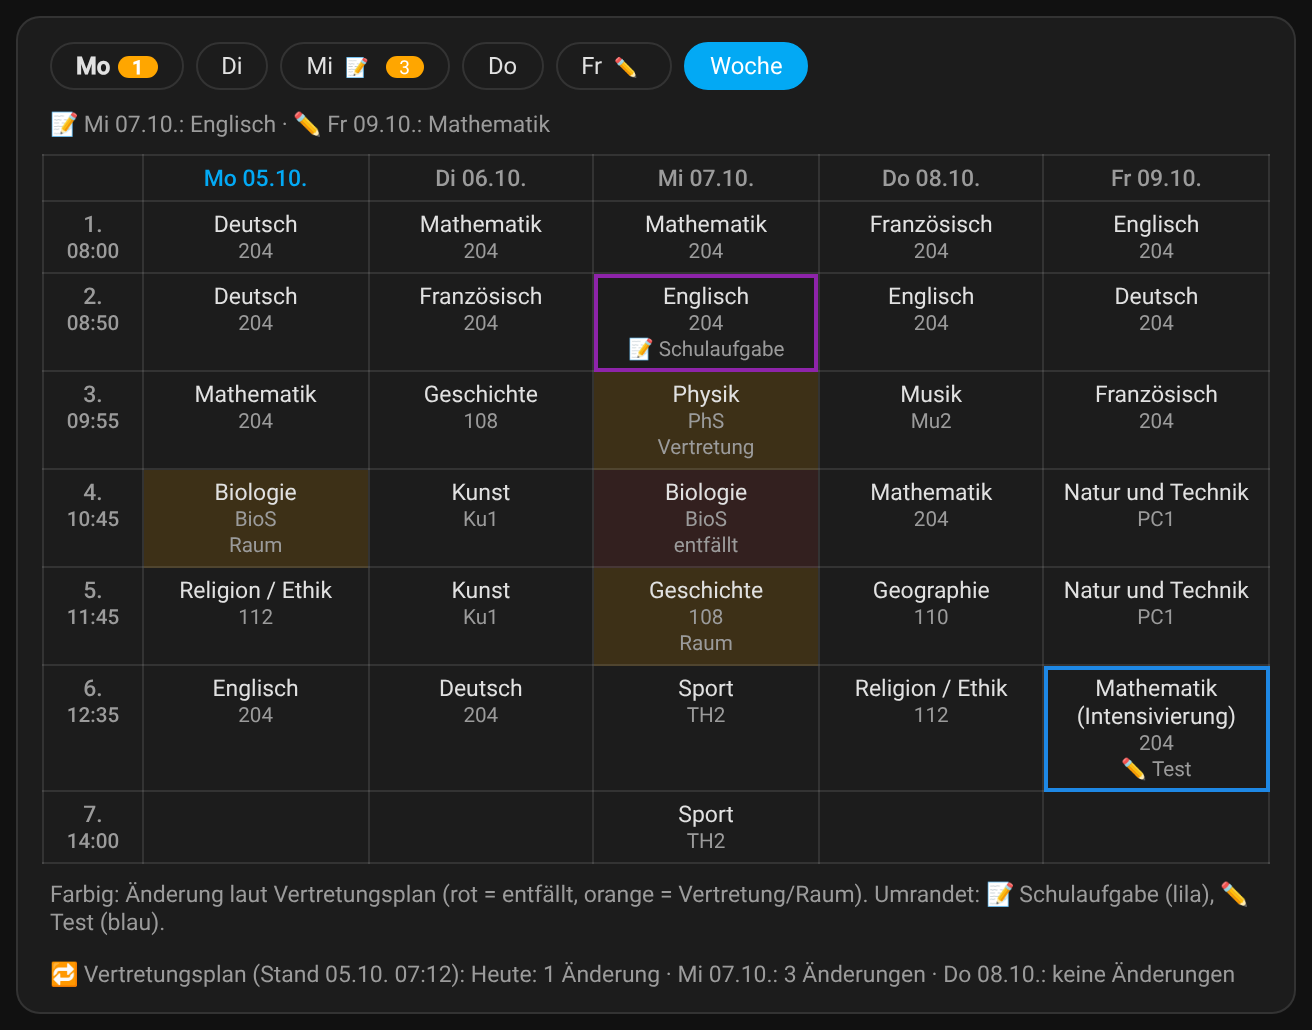
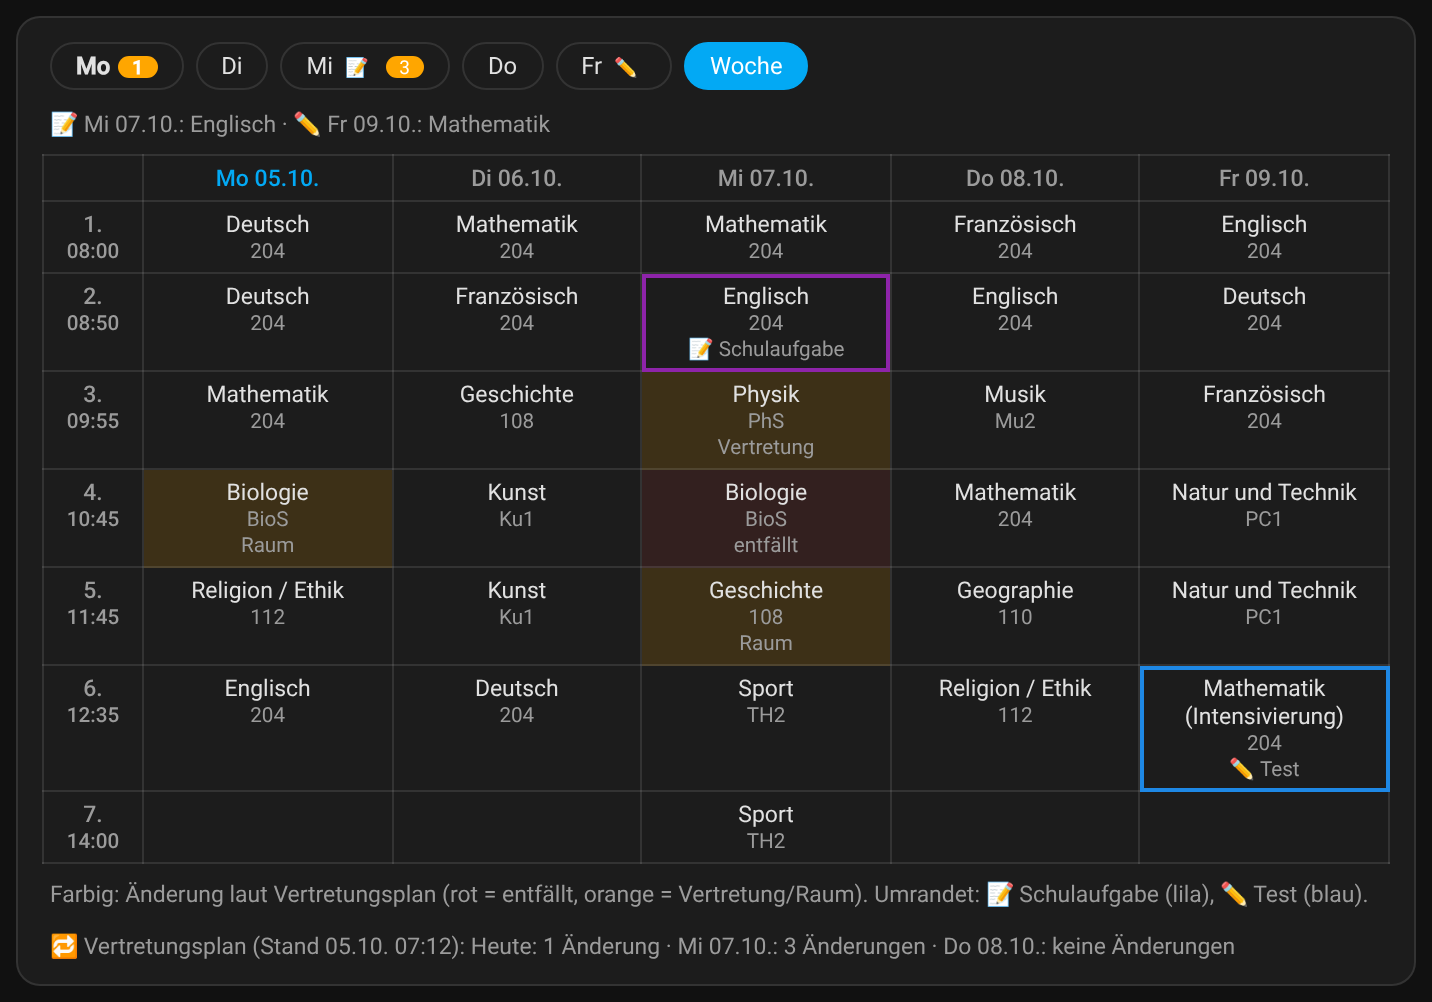
0.7.2: Wochenansicht ohne Querscrollen, Option view: week für die Übersicht
- Stundenplan-Karte: schmale Karten nutzen Kurzformen (Mathe, Engl., SA, Vertr.), kein min-width mehr
- Neue Option view: week; Dashboard-Übersicht startet beide Stundenpläne in der Woche
- README (EN/DE), Changelog, Test

Claude-Session: https://claude.ai/code/session_01QqjWEpAZQCKPRpwnvHVWB5

diff --git a/custom_components/schulmanager/www/schulmanager-card.js b/custom_components/schulmanager/www/schulmanager-card.js
@@ -4,9 +4,10 @@
  *   type: custom:schulmanager-termine      # Termine & Fristen mit Legende
  *   type: custom:schulmanager-stundenplan  # Stundenplan mit Vertretungen
  *   child: anna          # optional, ohne Angabe: alle Kinder
+ *   view: week           # nur Stundenplan: mit Wochenansicht starten (Standard: Tag)
  */
 (() => {
-  const VERSION = "0.7.1";
+  const VERSION = "0.7.2";
   const esc = (v) =>
     String(v ?? "").replace(/[&<>"']/g, (c) => ({ "&": "&amp;", "<": "&lt;", ">": "&gt;", '"': "&quot;", "'": "&#39;" })[c]);
   const fmtDate = (iso) => {
@@ -154,10 +155,22 @@
     .badge.vertretung, .badge.raum { background: rgba(255,166,0,.18); color: var(--warning-color,#e08a00); }
     .chg { font-size:.82em; color: var(--warning-color,#e08a00); margin-top:2px; }
     .les.entfall .chg { color: var(--error-color,#db4437); }
-    .wk { overflow-x:auto; padding: 0 12px 4px; }
-    .wk table { border-collapse: collapse; width:100%; min-width: 520px; font-size:.82em; table-layout: fixed; }
+    .wk { overflow-x:auto; padding: 0 12px 4px; container-type: inline-size; }
+    .wk table { border-collapse: collapse; width:100%; font-size:.82em; table-layout: fixed; }
     .wk th:first-child { width: 3.4em; }
-    .wk td { overflow-wrap:anywhere; }
+    .wk td { overflow-wrap:break-word; hyphens:auto; }
+    .wk .sh { display:none; }
+    /* schmale Karten (z. B. halbe Spalte): kurze Fachnamen, kleinere Schrift – kein Querscrollen */
+    @container (max-width: 640px) {
+      .wk table { font-size:.74em; }
+      .wk .lg { display:none; }
+      .wk .sh { display:inline; }
+      .wk th, .wk td { padding:3px 2px; }
+      .wk th:first-child { width: 2.9em; }
+    }
+    @container (max-width: 380px) {
+      .wk th .dt { display:none; }
+    }
     .wk th, .wk td { border:1px solid var(--divider-color); padding:4px 5px; text-align:center; vertical-align:top; }
     .wk th { color: var(--secondary-text-color); font-weight:500; }
     .wk th.today { color: var(--primary-color); }
@@ -593,6 +606,17 @@
     if (parts.length > 1 && parts.every((x) => RELIGION.has(x))) return "Religion / Ethik";
     return [...new Set(parts.map(partName))].join(" / ");
   };
+  // Kurzform für die Wochenansicht in schmalen Karten, z. B. "Mathematik (Intensivierung)" -> "Mathe Int."
+  const SHORT = [
+    [/\s*\(Intensivierung\)/g, " Int."], [/\s*\(Übung\)/g, " Ü"], [/\s*\(Wahlfach\)/g, " (W)"], [/\s*\(Förderunterricht\)/g, " Förd."],
+    [/Mathematik/g, "Mathe"], [/Englisch/g, "Engl."], [/Französisch/g, "Franz."], [/Spanisch/g, "Span."], [/Italienisch/g, "Ital."],
+    [/Griechisch/g, "Griech."], [/Biologie/g, "Bio"], [/Geschichte/g, "Gesch."], [/Geographie/g, "Geo"], [/Informatik/g, "Info"],
+    [/Natur und Technik/g, "NuT"], [/Religion \/ Ethik/g, "Reli/Eth"], [/Ev\. Religion/g, "Ev. Reli"], [/Kath\. Religion/g, "Kath. Reli"],
+    [/Berufsorientierung/g, "BO"], [/Wirtschaft und Recht/g, "WR"], [/Wirtschaftsinformatik/g, "WIn"], [/Sozialkunde/g, "Sozi"],
+    [/Politik und Gesellschaft/g, "PuG"], [/Klassenleiterstunde/g, "KL-Std."], [/Intensivierung/g, "Int."], [/Stimmbildung/g, "Stimmb."],
+    [/Tischtennis/g, "TT"], [/Schwimmen/g, "Schwimm."], [/Orchester/g, "Orch."], [/Profilfach/g, "Profil"],
+  ];
+  const shortName = (s) => SHORT.reduce((t, [re, r]) => t.replace(re, r), fullName(s)).replace(/\s*\/\s*/g, "/");
   const lessonNums = (txt) => {
     const nums = String(txt || "").match(/\d+/g) || [];
     if (nums.length === 2 && /-|–|bis/.test(txt)) {
@@ -638,6 +662,8 @@
   };
   const EXAM_LABEL = { schulaufgabe: ["📝", "Schulaufgabe", "exam-sa"], test: ["✏", "Test", "exam-test"] };
   const KIND_LABEL = { entfall: "entfällt", vertretung: "Vertretung", raum: "Raum" };
+  const KIND_SHORT = { entfall: "entfällt", vertretung: "Vertr.", raum: "Raum" };
+  const EXAM_SHORT = { schulaufgabe: "SA", test: "Test" };
 
   class SchulmanagerTermineCard extends SchulmanagerCard {
     getCardSize() {
@@ -813,10 +839,16 @@
       );
       root.querySelectorAll("[data-week]").forEach((el) =>
         el.addEventListener("click", () => {
-          this._week = { ...(this._week || {}), [el.dataset.week]: !(this._week || {})[el.dataset.week] };
+          this._week = { ...(this._week || {}), [el.dataset.week]: !this._isWeek(el.dataset.week) };
           this._render();
         })
       );
+    }
+
+    // Wochenansicht aktiv? Ohne Klick gilt die Einstellung `view: week` der Karte.
+    _isWeek(key) {
+      const w = (this._week || {})[key];
+      return w === undefined ? this._config.view === "week" : w;
     }
 
     // Datum des nächsten (oder heutigen) Tages mit diesem Wochentag
@@ -862,15 +894,15 @@
         const n = (byDate[iso] || []).length;
         const ex = (exams[iso] || []).map((e) => EXAM_LABEL[e.category][0]).join("");
         const tip = [`${WD_LONG[wd]} ${fmtShort(iso)}`, ...(exams[iso] || []).map((e) => e.title)].join("\n");
-        html += `<button class="pill ${iso === sel && !(this._week || {})[c.key] ? "on" : ""} ${iso === today ? "today" : ""}" data-child="${esc(c.key)}" data-day="${iso}" title="${esc(tip)}">${WD[wd]}${ex ? `<span class="x">${ex}</span>` : ""}${n ? `<span class="n">${n}</span>` : ""}</button>`;
+        html += `<button class="pill ${iso === sel && !this._isWeek(c.key) ? "on" : ""} ${iso === today ? "today" : ""}" data-child="${esc(c.key)}" data-day="${iso}" title="${esc(tip)}">${WD[wd]}${ex ? `<span class="x">${ex}</span>` : ""}${n ? `<span class="n">${n}</span>` : ""}</button>`;
       }
-      html += `<button class="pill ${(this._week || {})[c.key] ? "on" : ""}" data-week="${esc(c.key)}">Woche</button></div>`;
+      html += `<button class="pill ${this._isWeek(c.key) ? "on" : ""}" data-week="${esc(c.key)}">Woche</button></div>`;
 
       const soon = Object.keys(exams).filter((d) => d >= today && d <= addDays(today, 13)).sort();
       if (soon.length) {
         html += `<div class="info">${soon.map((d) => exams[d].map((e) => `${EXAM_LABEL[e.category][0]} ${dayLabel(d, today).split(" · ")[0]}: ${esc(e.subject ? fullName(e.subject) : e.title)}`).join(" · ")).join(" · ")}</div>`;
       }
-      if ((this._week || {})[c.key]) html += this._weekHtml(c, today, byDate);
+      if (this._isWeek(c.key)) html += this._weekHtml(c, today, byDate);
       else html += this._dayHtml(c, sel, today, byDate[sel] || [], byDate.hasOwnProperty(sel));
 
       // Vertretungsplan-Überblick
@@ -935,9 +967,9 @@
       const nums = [...new Set(c.timetable.map((l) => l.lesson))].sort((a, b) => Number(a) - Number(b));
       const times = {};
       for (const l of c.timetable) if (l.start && !times[l.lesson]) times[l.lesson] = l.start;
-      let html = `<div class="wk"><table><tr><th></th>`;
+      let html = `<div class="wk"><table lang="de"><tr><th></th>`;
       const dates = [1, 2, 3, 4, 5].map((wd) => this._dateFor(wd, today));
-      dates.forEach((iso, i) => (html += `<th class="${iso === today ? "today" : ""}">${WD[i + 1]} ${fmtShort(iso)}</th>`));
+      dates.forEach((iso, i) => (html += `<th class="${iso === today ? "today" : ""}">${WD[i + 1]} <span class="dt">${fmtShort(iso)}</span></th>`));
       html += `</tr>`;
       for (const nr of nums) {
         html += `<tr><th>${esc(nr)}.<div class="r">${esc(times[nr] || "")}</div></th>`;
@@ -947,7 +979,7 @@
           const kind = ch.some((e) => e.kind === "entfall") ? "entfall" : ch.length ? ch[0].kind : "";
           const ex = l && ((this._exams || {})[iso] || []).find((e) => e.subject && sameSubject(e.subject, l.subject));
           const exCls = ex ? " " + EXAM_LABEL[ex.category][2] : "";
-          html += `<td class="${kind ? "chg-" + kind : ""}${exCls}" title="${esc(ch.map(changeText).join("\n") || l?.subject || "")}">${l ? esc(fullName(l.subject)) + `<div class="r">${esc(room(l.room))}</div>` : ""}${kind ? `<div class="r">${KIND_LABEL[kind]}</div>` : ""}${ex ? `<div class="r">${EXAM_LABEL[ex.category][0]} ${EXAM_LABEL[ex.category][1]}</div>` : ""}</td>`;
+          html += `<td class="${kind ? "chg-" + kind : ""}${exCls}" title="${esc(ch.map(changeText).join("\n") || l?.subject || "")}">${l ? `<span class="lg">${esc(fullName(l.subject))}</span><span class="sh">${esc(shortName(l.subject))}</span>` + `<div class="r">${esc(room(l.room))}</div>` : ""}${kind ? `<div class="r"><span class="lg">${KIND_LABEL[kind]}</span><span class="sh">${KIND_SHORT[kind] || KIND_LABEL[kind]}</span></div>` : ""}${ex ? `<div class="r">${EXAM_LABEL[ex.category][0]} <span class="lg">${EXAM_LABEL[ex.category][1]}</span><span class="sh">${EXAM_SHORT[ex.category]}</span></div>` : ""}</td>`;
         });
         html += `</tr>`;
       }

diff --git a/docs/screenshots/demo.html b/docs/screenshots/demo.html
@@ -155,7 +155,7 @@
   s.src = "../../custom_components/schulmanager/www/schulmanager-card.js";
   s.onload = () => {
     const el = document.createElement(card === "task" ? "schulmanager-card" : "schulmanager-" + card);
-    el.setConfig({});
+    el.setConfig(q.get("view") ? { view: q.get("view") } : {});
     document.getElementById("wrap").appendChild(el);
     el.hass = window.hass;
     window.cardEl = el;

diff --git a/custom_components/schulmanager/dashboard.py b/custom_components/schulmanager/dashboard.py
@@ -113,8 +113,11 @@ def _termine(child: str | None = None) -> dict[str, Any]:
     return card
 
 
-def _stundenplan(child: str) -> dict[str, Any]:
-    return {"type": "custom:schulmanager-stundenplan", "child": child, "grid_options": {"columns": 12}}
+def _stundenplan(child: str, view: str | None = None) -> dict[str, Any]:
+    card: dict[str, Any] = {"type": "custom:schulmanager-stundenplan", "child": child, "grid_options": {"columns": 12}}
+    if view:
+        card["view"] = view
+    return card
 
 
 def _portal_button(child: dict[str, Any]) -> dict[str, Any] | None:
@@ -181,7 +184,7 @@ def build_config(hass: HomeAssistant, manager: SchulManager, mode: str) -> dict[
                     ],
                 },
                 {
-                    # Rechte Spalte: Stundenplan je Kind (seit 0.7.1 statt der Schulmanager-Karte)
+                    # Rechte Spalte: Stundenplan je Kind in Wochenansicht (seit 0.7.1 statt der Schulmanager-Karte)
                     "type": "grid",
                     "cards": [
                         card
@@ -192,7 +195,7 @@ def build_config(hass: HomeAssistant, manager: SchulManager, mode: str) -> dict[
                                 "heading": f"Stundenplan {child['name']}",
                                 "icon": "mdi:timetable",
                             },
-                            _stundenplan(key),
+                            _stundenplan(key, view="week"),
                         )
                     ],
                 },

diff --git a/tests/test_schulmanager.py b/tests/test_schulmanager.py
@@ -605,6 +605,7 @@ async def test_dashboard_tabs_single_and_protection(hass: HomeAssistant, media_d
     right = cfg["views"][0]["sections"][1]["cards"]
     plans = [c["child"] for c in right if c["type"] == "custom:schulmanager-stundenplan"]
     assert plans == list(m.children), right
+    assert all(c.get("view") == "week" for c in right if c["type"] == "custom:schulmanager-stundenplan")
     assert all(c["type"] != "entities" for c in right)
     assert "sensor.schule_erika_status" not in overview
     assert cfg["views"][1]["sections"][0]["cards"][0] == {

diff --git a/docs/screenshots/make_screenshots.py b/docs/screenshots/make_screenshots.py
@@ -22,7 +22,7 @@ OUT = HERE.parent / "images"
 SHOTS = [
     # (Dateiname, Karte, Breite, Aktion)
     ("stundenplan.png", "stundenplan", 380, "day"),
-    ("stundenplan-woche.png", "stundenplan", 640, "week"),
+    ("stundenplan-woche.png", "stundenplan", 700, "week"),
     ("termine.png", "termine", 400, "hover"),
     ("task-dialog.png", "task", 390, "dialog"),
 ]

diff --git a/README.de.md b/README.de.md
@@ -50,7 +50,8 @@ Zeigt pro Kind die Reiter **Aufgaben**, **Mitteilungen** und **Erledigt**.
 
 <p align="center"><sub>Die Screenshots zeigen erfundene Demo-Daten (`docs/screenshots/demo.html`, neu erzeugen mit `python docs/screenshots/make_screenshots.py`).</sub></p>
 
-- Tagesansicht mit Uhrzeit und Raum, umschaltbar auf die **Woche**. Vormittags zeigt sie den heutigen Tag, nach Schulschluss und am Wochenende den nächsten Schultag.
+- Tagesansicht mit Uhrzeit und Raum, umschaltbar auf die **Woche**. Vormittags zeigt sie den heutigen Tag, nach Schulschluss und am Wochenende den nächsten Schultag. Mit `view: week` startet die Karte in der Wochenansicht (so auf dem Reiter *Übersicht*).
+- Die Wochenansicht passt auch in schmale Karten (halbe Spalte, Handy), ohne dass man seitlich scrollen muss: Fächer werden dort abgekürzt („Mathe“, „Engl.“, „Reli/Eth“, „SA“ für Schulaufgabe).
 - Fächer stehen **ausgeschrieben** da („Biologie“ statt „B“, „Mathematik (Intensivierung)“ statt „MInt“, „Sport“ statt „Sm/Sw“). Das Original-Kürzel erscheint, wenn man mit der Maus darauf zeigt.
 - Änderungen aus dem Vertretungsplan sind farbig markiert: rot = entfällt, orange = Vertretung oder Raumänderung. Die Zahl an den Wochentagen zeigt, wie viele Änderungen anstehen.
 - **Schulaufgaben und Tests** aus den Portal-Terminen sind hervorgehoben: 📝 / ✏ an den Wochentagen, ein Kasten über den Stunden des Tages und eine Markierung am passenden Fach (lila = Schulaufgabe, blau = Test). Was in den nächsten zwei Wochen ansteht, steht über dem Stundenplan.

diff --git a/README.md b/README.md
@@ -57,7 +57,8 @@ Shows the tabs **Aufgaben** (tasks), **Mitteilungen** (messages) and **Erledigt*
 
 <p align="center"><sub>Screenshots show made-up demo data (`docs/screenshots/demo.html`, regenerate with `python docs/screenshots/make_screenshots.py`).</sub></p>
 
-- Day view with times and rooms, switchable to the whole **week**. In the morning it shows today; after the last lesson and at weekends it shows the next school day.
+- Day view with times and rooms, switchable to the whole **week**. In the morning it shows today; after the last lesson and at weekends it shows the next school day. With `view: week` the card starts in the week view (used on the *Overview* tab).
+- The week view fits narrow cards (e.g. half a column or a phone) without horizontal scrolling: subjects are shortened there ("Mathe", "Engl.", "Reli/Eth", "SA" for exam).
 - Subjects are **written out** ("Biologie" instead of "B", "Mathematik (Intensivierung)" instead of "MInt", "Sport" instead of "Sm/Sw"); hover a subject to see the original abbreviation.
 - Changes from the substitution plan are highlighted: red = cancelled, orange = substitution or room change. The number on a weekday shows how many changes are coming up.
 - **Exams and tests** are marked: 📝 / ✏ on the weekday buttons, a box above the lessons of that day and a badge on the matching subject (purple = exam, blue = test). Upcoming ones for the next two weeks are listed above the timetable.

diff --git a/CHANGELOG.md b/CHANGELOG.md
@@ -1,5 +1,10 @@
 # Changelog
 
+## 0.7.2 – 2026-10-04
+
+- Timetable card: the week view no longer needs horizontal scrolling in narrow cards (half a column on the *Overview* tab, child tabs, phones). Narrow cards use short subject names ("Mathe", "Engl.", "Reli/Eth") and short labels ("SA", "Vertr."). / Stundenplan: Wochenansicht ohne Querscrollen in schmalen Karten, mit abgekürzten Fächern.
+- Timetable card: new option `view: week` to start in the week view. The *Overview* tab of the "Schule" dashboard uses it for both timetables. / Neue Option `view: week`; die Übersicht startet in der Wochenansicht.
+
 ## 0.7.1 – 2026-10-04
 
 - Dashboard "Schule", tab *Overview*: the right-hand "Schulmanager" panel (last fetch, refresh, send summary) is replaced by **each child's timetable** with substitutions, exams and tests. Refresh and summary stay available as actions `schulmanager.refresh` / `schulmanager.send_digest`, and the last fetch as `sensor.schulmanager_letzter_abruf`. The dashboard updates by itself after the restart unless it was changed by hand (then: action `schulmanager.rebuild_dashboard`). / Dashboard „Schule“, Reiter *Übersicht*: Statt der Karte „Schulmanager“ steht rechts jetzt der **Stundenplan je Kind** mit Vertretungen, Schulaufgaben und Tests. Abrufen und Tagesübersicht bleiben als Aktionen erhalten.
